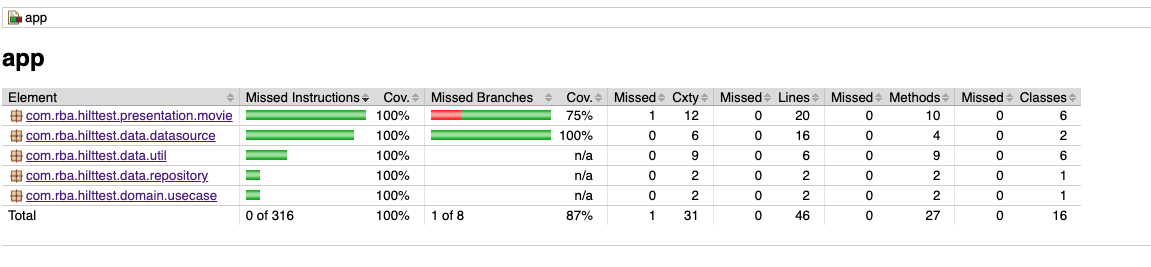
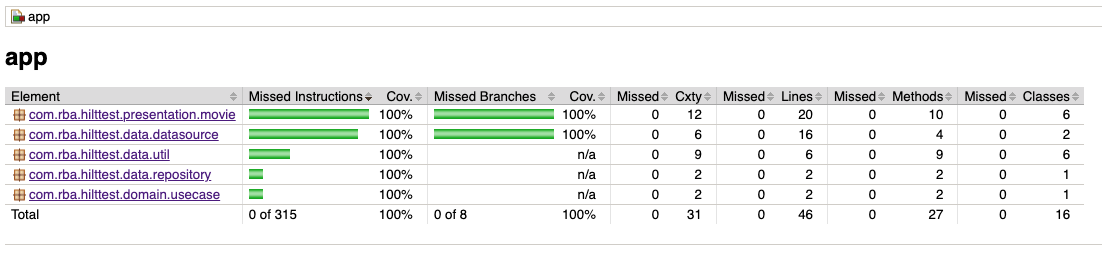
chore: add sonar

diff --git a/app/src/main/java/com/rba/hilttest/presentation/movie/MovieViewModel.kt b/app/src/main/java/com/rba/hilttest/presentation/movie/MovieViewModel.kt
@@ -26,15 +26,16 @@ class MovieViewModel @Inject constructor(
         viewModelScope.launch {
             _viewState.value = ViewState.ShowLoading
 
-            when (val result = useCase.invoke(page)) {
-                is ResultType.Success -> {
-                    _viewState.value = ViewState.Data(result.value)
-                }
+            val result = useCase(page)
 
-                is ResultType.Error -> {
-                    _viewState.value = ViewState.Error(result.value.message)
-                }
+            if (result is ResultType.Success) {
+                _viewState.value = ViewState.Data(result.value)
             }
+
+            if (result is ResultType.Error) {
+                _viewState.value = ViewState.Error(result.value.message)
+            }
+
             _viewState.value = ViewState.HideLoading
         }
     }

diff --git a/README.md b/README.md
@@ -1,18 +1,36 @@
 # Movies List
 
-Example Project using Clean Architecture, Retrofit, Hilt, Mockk and Jacoco (100% coverage).
+Example Project using Clean Architecture, Retrofit, Hilt, Mockk, Jacoco and SonarQube (100% coverage).
 
-## Coverage
+## Coverage with Jacoco and SonarQube
 
-Use **testDebugUnitTestCoverage**
+For Jacoco Use **testDebugUnitTestCoverage** and SonarQube **sonar**
 
 <img alt="jacoco task" src="./images/task.png"/>
 
 ```bash
+//Jacoco
 ./gradlew :app:testDebugUnitTestCoverage
+
+//Sonar
+./gradlew :app:sonar
 ```
 
 <img alt="coverage" src="./images/jacoco.png" />
+
+<img alt="coverage" src="./images/sonar.png" />
+
+## Update SonarQube credentials
+
+```bash
+// devops/sonar.gradle
+sonar.projectName
+sonar.projectKey
+sonar.host.url
+sonar.login
+```
+>sonar api key is located in **gradle.properties**
+
 
 ## Contributing
 
